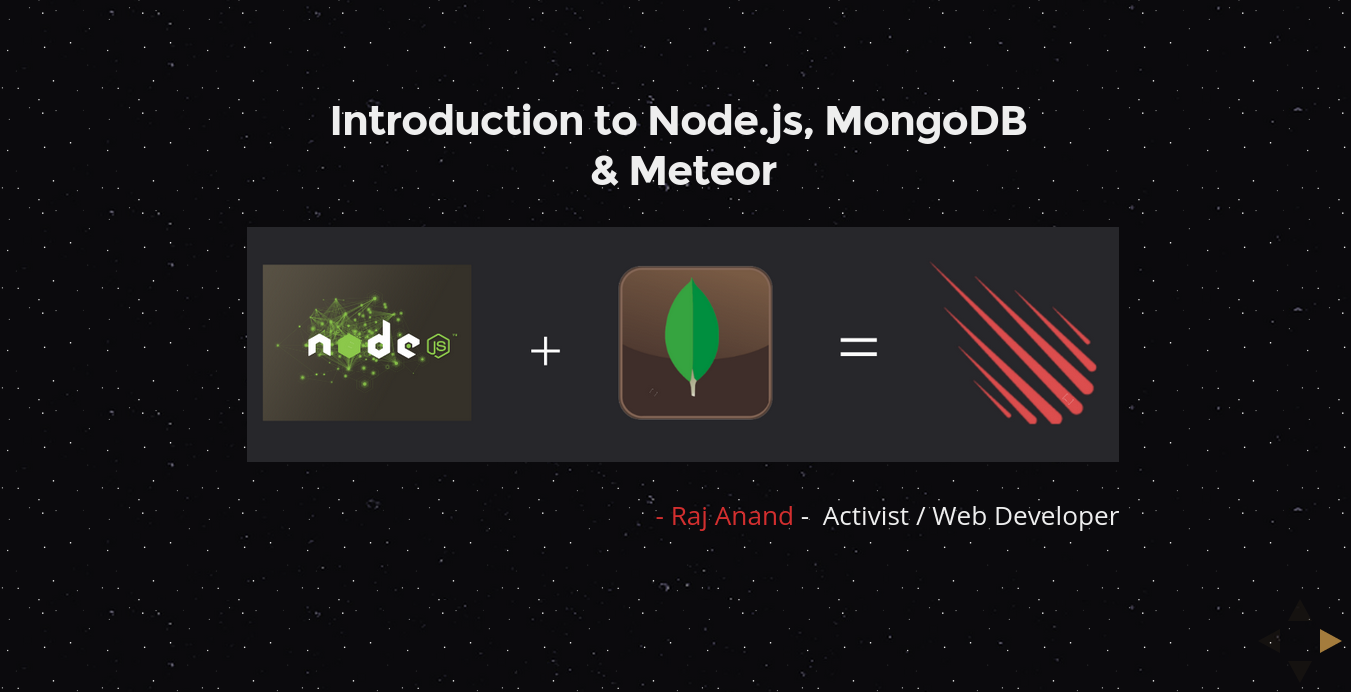
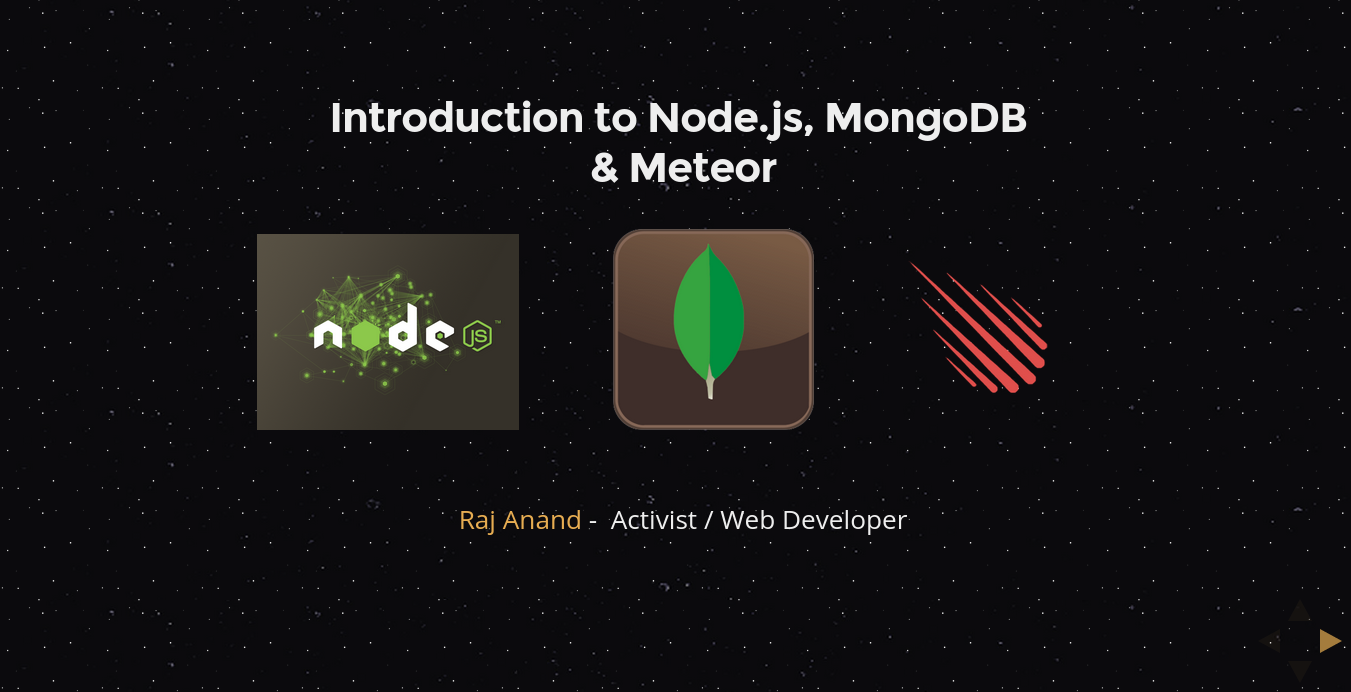
remove image files and update landing page

Changed region(s): [[0.1554, 0.3035, 0.8394, 0.6676], [0.2487, 0.1517, 0.7772, 0.2731], [0.342, 0.7283, 0.8394, 0.789]]

diff --git a/index.html b/index.html
@@ -54,9 +54,15 @@
       <div class="slides">
         <section data-transition='concave' data-background='img/stars.png' data-background-size="100px" data-background-repeat="repeat" data-background-transition="slide">
           <h3>Introduction to Node.js, MongoDB <br />&  Meteor</h3>
-          <img src="img/intro2.png" alt=""  class="responsive-img"/>
-          <p style="font-size: 3rem;  text-align:right ">
-                <small><a href="" style="color:#d32f2f; ">- Raj Anand</a> -&nbsp;  Activist / Web Developer</small>
+          <!--<img src="img/home_page1.png" alt="" style="width: 100%;"/>-->
+          <div class="">
+          <img src="img/nodejs.png" alt="" style="width: 30%;" />
+          <img src="img/mongodb_leaf.png" alt="" style="width: 23%; margin-left: 10%; margin-right: 3%" />
+          <img src="img/meteor.png" alt="" style="width: 30%;" />
+          </div>
+          <br />
+          <p style="font-size: 3rem; ">
+                <small><a href="http://rajanand02.github.io/" target="_blank" style=""> Raj Anand</a> -&nbsp;  Activist / Web Developer</small>
                 </p>
         </section>
 
@@ -174,7 +180,7 @@
           </section>
 
           <section  data-transition='concave' data-background='img/stars1.png' data-background-size="150px" data-background-repeat="repeat" data-background-transition="slide" style="top: 10px">
-            <h3>Blocking <span style="color:rgb(237, 58, 16)">VS</span> Non-Blocking</h3>
+            <h3>Blocking <a href="#">Vs</a> Non-Blocking</h3>
              <small style="  color: #ff2c2d; position: absolute; left: 50px">file_read.rb</small>
             <pre style="box-shadow: none; font-size: 1.3rem;">
             <code data-trim contenteditable>
